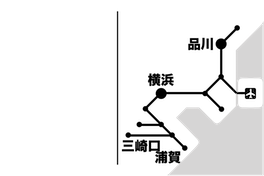
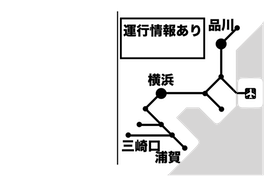
Add legend.

Changed region(s): [[0.4545, 0.0852, 0.9091, 0.3409]]

diff --git a/show_keikyu_map.py b/show_keikyu_map.py
@@ -27,6 +27,7 @@ IMAGE_DAISHI = "./image/map_daishi-line.png"
 IMAGE_ZUSHI = "./image/map_zushi-line.png"
 IMAGE_KURIHAMA = "./image/map_kurihama-line.png"
 IMAGE_FULL = "./image/map_full.png"
+IMAGE_LEGEND = "./image/map_main-legend.png"
 
 
 def show_image(black_image, red_image):
@@ -49,6 +50,9 @@ if __name__ == '__main__':
 
     image_black_temp = Image.open(IMAGE_FULL)
     image_black.paste(image_black_temp, mask=image_black_temp)
+
+    image_red_temp = Image.open(IMAGE_LEGEND)
+    image_red.paste(image_black_temp, mask=image_red_temp)
 
     for line in highlightLine:
         if line == AIRPORT:
